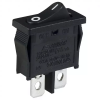
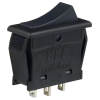
Updated partlist

Changed region(s): [[0.06, 0.0, 0.93, 0.99], [0.57, 0.36, 0.63, 0.45], [0.42, 0.45, 0.45, 0.48]]

diff --git a/README.MD b/README.MD
@@ -79,17 +79,6 @@ The **[firmware update guide](https://github.com/maxritter/DIY-Thermocam/blob/ma
    </tr>
    <tr>
       <td style="width: 113px" >
-         &nbsp;<img src="https://raw.githubusercontent.com/maxritter/DIY-Thermocam/master/Images/BOM/CableRight.png" style="-webkit-user-select: none" />
-      </td>
-      <td >
-	  <a href="https://www.amazon.com/TRIPP-6-Feet-Universal-Reversible-UR050-006-DNB/dp/B00KKSPCIC/ref=sr_1_8?crid=M57WB3DGWUMY&amp;dchild=1&amp;keywords=down+angle+micro+usb+cable&amp;qid=1615663958&amp;sprefix=down+angle+micro+%2Caps%2C295&amp;sr=8-8">
-	  <strong>Down angle microUSB cable</strong></a><br />
-         For connection of the Thermocam to the PC&nbsp;and 
-         charging of the device
-      </td>
-   </tr>
-   <tr>
-      <td style="width: 113px" >
          &nbsp;<img src="https://raw.githubusercontent.com/maxritter/DIY-Thermocam/master/Images/BOM/Tripod.png" style="-webkit-user-select: none" />
       </td>
       <td >
@@ -206,9 +195,9 @@ The **[firmware update guide](https://github.com/maxritter/DIY-Thermocam/blob/ma
          &nbsp;<img src="https://raw.githubusercontent.com/maxritter/DIY-Thermocam/master/Images/BOM/PowerSwitch.png" style="-webkit-user-select: none" />
       </td>
       <td >
-	  <a href="http://www.digikey.com/product-detail/en/e-switch/R6ABLKBLKFF/EG1526-ND/301973">
-	  <strong>E-Switch R6ABLKBLKFF</strong></a> (1,41€)<br />
-         Power switch
+	  <a href="https://www.digikey.com/en/products/detail/nkk-switches/CWT12AAS1/671497">
+	  <strong>NKK Switches CWT12AAS1</strong></a> (1,41€)<br />
+         SWITCH ROCKER SPDT 6A 125V
       </td>
    </tr>
    <tr>
@@ -219,16 +208,6 @@ The **[firmware update guide](https://github.com/maxritter/DIY-Thermocam/blob/ma
 	  <a href="http://www.digikey.com/product-detail/en/rafi-usa/1.10107.0110104/1715-1019-ND/6227436">
 	  <strong>RAFI 1.10107.0110104</strong></a> (6,54€)<br />
          Push button
-      </td>
-   </tr>
-   <tr>
-      <td style="width: 112px">
-         &nbsp;<img src="https://raw.githubusercontent.com/maxritter/DIY-Thermocam/master/Images/BOM/USBSwitch.png" style="-webkit-user-select: none" />
-      </td>
-      <td >
-	  <a href="http://www.digikey.com/product-detail/en/e-switch/EG1201A/EG1902-ND/101723">
-	  <strong>E-Switch EG1201A</strong></a> (0,64€)<br />
-         USB power switch
       </td>
    </tr>
    <tr>
@@ -283,12 +262,31 @@ The **[firmware update guide](https://github.com/maxritter/DIY-Thermocam/blob/ma
    </tr>
    <tr>
       <td style="width: 112px">
+         &nbsp;<img src="https://raw.githubusercontent.com/maxritter/DIY-Thermocam/master/Images/BOM/CameraHeader.png" style="-webkit-user-select: none" />
+      </td>
+      <td >
+	  <a href="https://www.digikey.com/en/products/detail/sullins-connector-solutions/PPPC081LGBN-RC/775941">
+	  <strong>Arducam connector</strong></a> (0,63€)<br />
+         8-pin 2.54mm female header &nbsp;
+      </td>
+   </tr> 
+   <tr>
+      <td style="width: 112px">
          &nbsp;<img src="https://raw.githubusercontent.com/maxritter/DIY-Thermocam/master/Images/BOM/PinHeader.png" style="-webkit-user-select: none" />
       </td>
       <td ><strong>2 x </strong>
 	  <a href="https://www.digikey.com/en/products/detail/4-103741-0/A26509-40-ND/297917">
 	  <strong>Pin header strip</strong></a> (3,70€)<br />
          40-pin 2.54mm male header&nbsp;
+      </td>
+   </tr>
+  <tr>
+      <td style="width: 112px">
+         &nbsp;<img src="https://raw.githubusercontent.com/maxritter/DIY-Thermocam/master/Images/BOM/TeensyHeader.png" style="-webkit-user-select: none" />
+      </td>
+      <td ><a href="https://www.digikey.com/en/products/detail/adafruit-industries-llc/598/8299908?s=N4IgTCBcDaIIIBMCGAzATgVwJYBcAEArAJwAcIAugL5A">
+	  <strong>Teensy Female Header</strong></a> (2,43€)<br />
+         36-pin 0.1" Female header - pack of 5&nbsp;
       </td>
    </tr>
    <tr>
@@ -330,8 +328,9 @@ The **[firmware update guide](https://github.com/maxritter/DIY-Thermocam/blob/ma
 	  <strong>10K 1/4W 1% resistor</strong></a> (0,16€)<br />
          Multi-purpose resistor
       </td>
-   </tr>
+   </tr>	
 </table>
+
 
 
 
@@ -388,7 +387,18 @@ The **[firmware update guide](https://github.com/maxritter/DIY-Thermocam/blob/ma
          5V voltage booster&nbsp;
       </td>
    </tr>
+   <tr>
+      <td style="width: 110px"  >
+         &nbsp;<img src="https://raw.githubusercontent.com/maxritter/DIY-Thermocam/master/Images/BOM/USBCable.png" style="-webkit-user-select: none" />
+      </td>
+      <td >
+	  <a href="https://www.robotshop.com/en/120cm-a-micro-b-usb-cable.html">
+	  <strong>Micro USB Cable</strong></a> (2,43€)<br />
+         120cm A to Micro B USB Cable&nbsp;
+      </td>
+   </tr>
    </table>
+
 
 
 ## BuyDisplay.com
